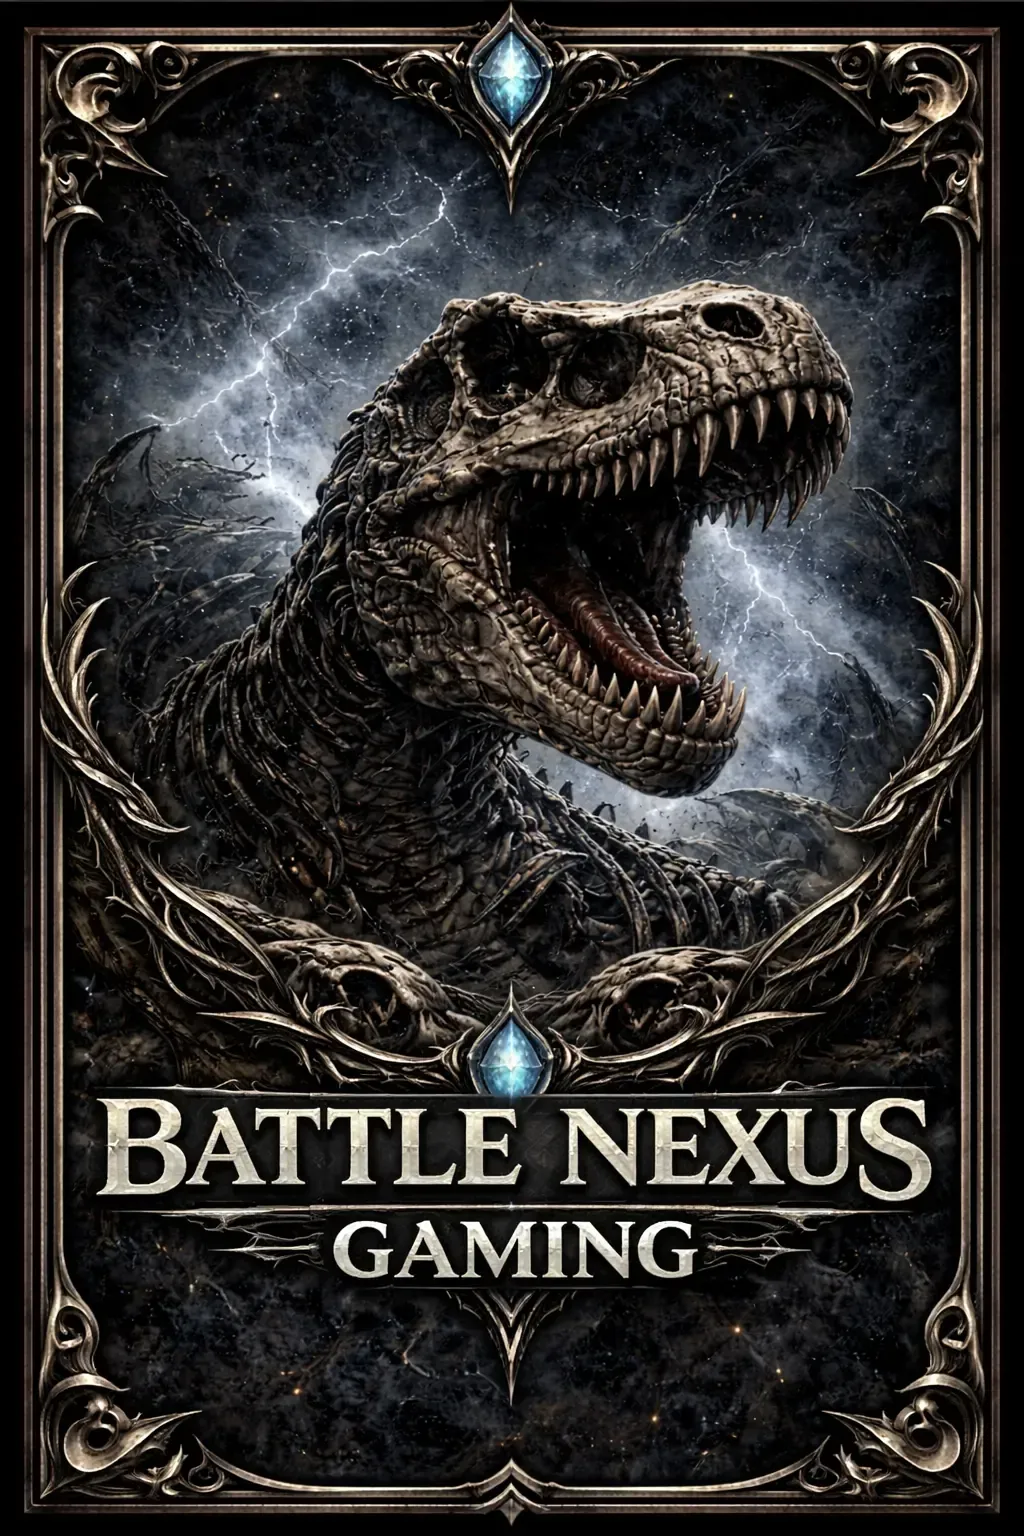
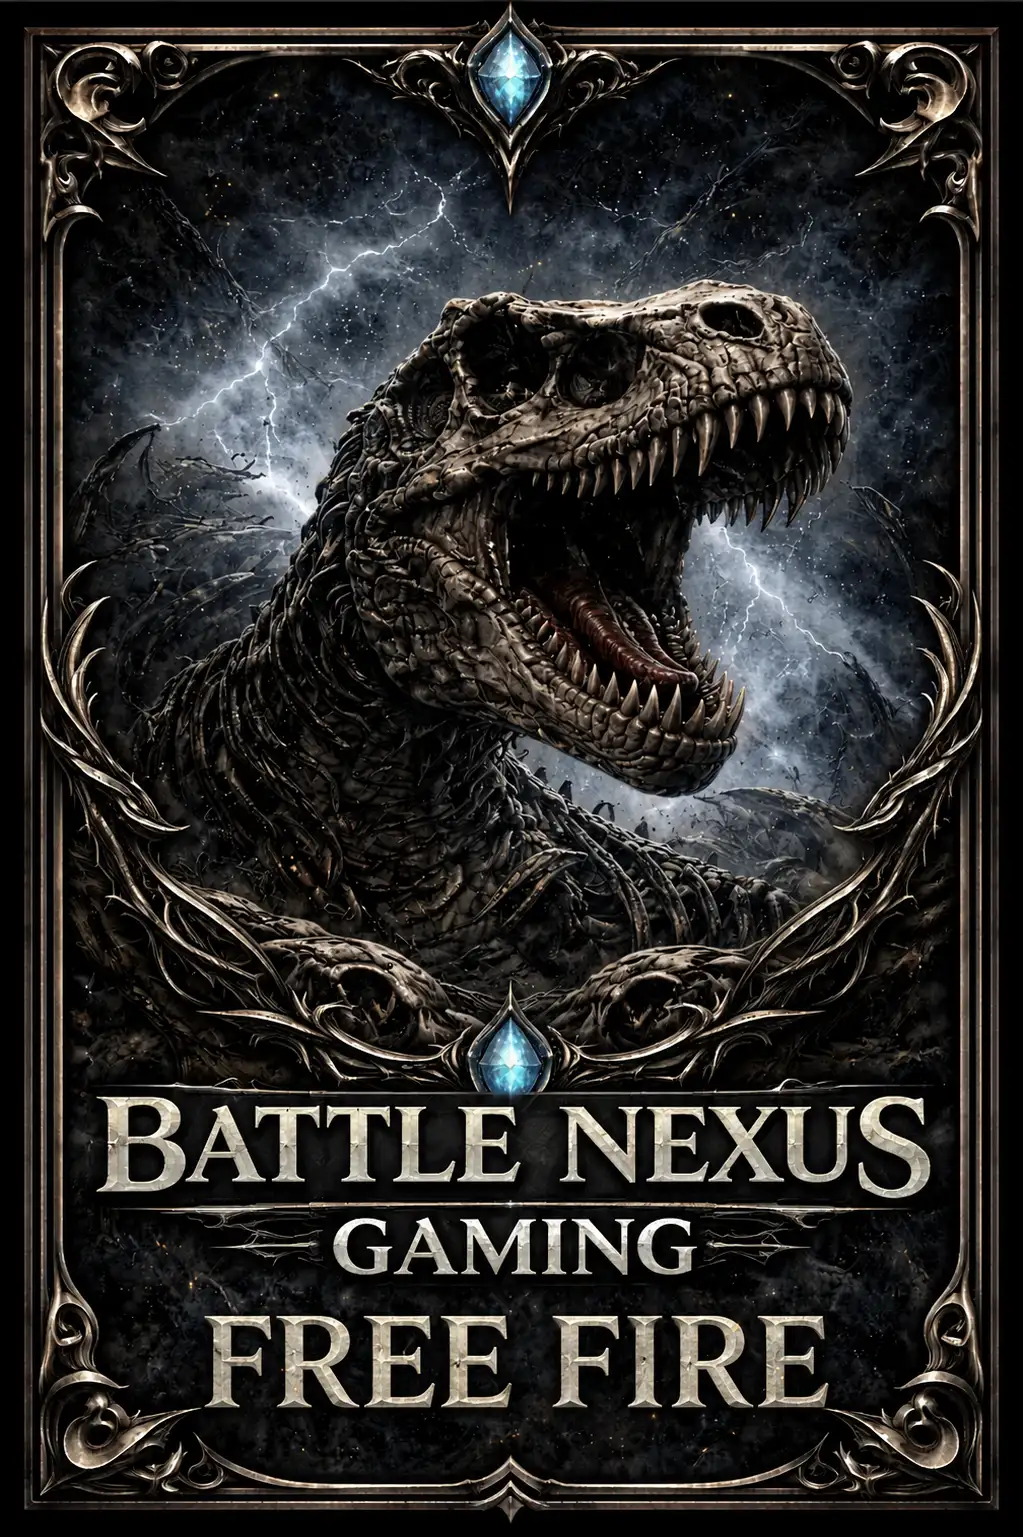
upded cultural datea

diff --git a/frontend/src/data/culturalEventsData.js b/frontend/src/data/culturalEventsData.js
@@ -11,15 +11,16 @@ export const culturalEventsData = {
     entryFee: "₹500",
     description: "Showcase your confidence, professionalism, and stage presence in the Corporate Walk event. Participants will walk the stage in formal attire and be judged based on confidence, presentation, personality, and overall appearance.",
     rules: [
-      "The team size consists of min 4 and max 12 members",
-      "The time limit is 5 minutes, with an additional 2 minutes allotted for stage setup",
-      "Participants are required to wear strict corporate or formal attire",
-      "Participants must submit their music in advance, preferably in MP3 format",
-      "Only minimal and safe props allowed (no smoke, fireworks etc)",
-      "Report 30–45 minutes before the event",
-      "Exceeding time limit will lead to point deduction",
-      "Rule violations may lead to disqualification",
-      "Judges’ decision will be final and binding"
+      "The team size consists of a minimum of 4 and a maximum of 12 members.",
+      "The time limit is 5 minutes, with an additional 1 minutes allotted for stage setup.",
+      "Participants are required to wear strict corporate or formal attire.",
+      "Participants should submit their music in advance, preferably in MP3 format.",
+      "Only minimal and safe props are allowed (no smoke, fireworks, etc.).",
+      "Report 30–45 minutes before the event.",
+      "Exceeding the time limit will lead to point deduction.",
+      "Rule violations may lead to disqualification.",
+      "Any number of teams from the same college can participate.",
+      "Judge’s decisions will be final and binding."
     ],
     coordinators: [
       {
@@ -53,16 +54,16 @@ export const culturalEventsData = {
     date: "May 16, 2026",
     time: "10:30 AM",
     location: "seminar hall 1",
-    participants: "Team of 6-8",
+    participants: "Team of 5-8",
     entryFee: "₹400",
     description: "Bring your team spirit and musical talent to the stage in the Group Song event. Participants will perform together showcasing coordination, vocals, rhythm, and overall stage performance. Judging will be based on song selection, harmony, creativity, and presentation.",
     rules: [
-      "The team should consist of a minimum of 6 and a maximum of 8 participants",
-      "Time limit: 4+1 minutes, including setting time",
-      "Judgment will be based on quality of singing, rhythm, pitch, clarity, and overall impression",
-      "Instruments are permitted",
-      "Western song category: Any pure Western song forms are allowed in Kannada, Hindi, or English language",
-      "Music tracks must be provided in a pen drive and submitted to the coordinator prior to the event"
+      "The team should consist of a minimum of 5 members and a maximum of 8 participants.",
+      "Time limit: 4+1 minutes (including stage setting).",
+      "Musical instruments are permitted.",
+      "Music tracks must be provided on a flash drive and submitted to the coordinator 1 hour before the event.",
+      "Remix songs are not allowed. Only one song is permitted (no restriction on language).",
+      "Judges’ decision is final."
     ],
     coordinators: [
       {
@@ -96,15 +97,18 @@ export const culturalEventsData = {
     date: "May 16, 2026",
     time: "11:30 AM",
     location: "seminar hall 3",
-    participants: "Team of 10-12",
+    participants: "Team of 4-12",
     entryFee: "₹400",
     description: "Bring your energy, coordination, and creativity to the stage in the Group Dance event. Teams will perform together showcasing synchronization, expressions, choreography, and overall stage performance. Judging will be based on creativity, coordination, presentation, and audience impact.",
     rules: [
-      "The team should consist of a minimum of 3 and a maximum of 8 participants, including special appearances",
-      "Time limit: 7+1 minutes, including setting time",
-      "Any number of groups can participate from the same college",
-      "Music tracks must be provided in a flash drive in MP3 format and submitted to the coordinator one hour prior to the event",
-      "Hazardous materials and indecency are not allowed"
+      "Any number of groups can participate from the same college.",
+      "Time limit: 5+1 minutes (including stage setting).",
+      "Theme should be based on Folk.",
+      "The team should consist of a minimum of 4 and a maximum of 12 participants (including special appearances).",
+      "Music tracks must be provided in MP3 format on a flash drive and submitted to the coordinator 1 hour before the event.",
+      "Hazardous materials and indecency are not allowed.",
+      "Participants are responsible for removing all materials immediately after the performance.",
+      "Judges’ decision will be final."
     ],
     coordinators: [
       {
@@ -142,11 +146,12 @@ export const culturalEventsData = {
     entryFee: "₹100",
     description: "Showcase your talent, energy, and passion through the Solo Dance event. Participants will perform individually and will be judged based on expression, creativity, coordination, stage presence, and overall performance.",
     rules: [
-      "This is a solo dance competition, and all dance forms are allowed",
-      "The maximum performance time is 5 minutes",
-      "Participants must submit their audio track one day prior to the event",
-      "Participants should report 30 minutes before the competition",
-      "Judges’ decision will be final, and vulgarity is strictly prohibited"
+      "Dance should be based on Classical/Semi-Classical.",
+      "Time limit: 5 minutes.",
+      "Participants must submit the music track 1 day before the event.",
+      "Participants should report 1 hour before the competition.",
+      "Any number of participants can participate from the same college.",
+      "Judges’ decision is final."
     ],
     coordinators: [
       {
@@ -184,10 +189,11 @@ export const culturalEventsData = {
     entryFee: "₹100",
     description: "Get ready for an exciting battle of talent, confidence, and creativity in the Face Off event. Participants will compete head-to-head showcasing their skills, presence of mind, and performance abilities. Judging will be based on confidence, creativity, presentation, and overall impact.",
     rules: [
-      "Dancers will be challenged to dance to the unpredictable, varied beats of a DJ",
-      "The music genre will change for each pair of dancers and can range from any genre of music such as rap, pop, breakbeats, funk, electronica, house music, hip hop etc",
-      "Judges will choose 1 dancer from each battle to advance to the next round until the battle progresses to 2 final dancers",
-      "Each dancer will be judged on his/her artistic creativity, his/her musicality, and his/her ability to entertain the judges"
+      "Dancers will be challenged to dance to unpredictable and varied DJ beats.",
+      "Music genres may include rap, pop, breakbeats, funk, electronic, house music, hip-hop, etc.",
+      "Judges will choose one dancer from each battle to advance to the next round until the battle progresses to 2 final dancers.",
+      "Any number of participants from the same college can participate.",
+      "Judges’ decisions will be final and binding."
     ],
     coordinators: [
       {
@@ -215,7 +221,7 @@ export const culturalEventsData = {
   },
   20: {
     id: 20,
-    title: "BATTLE NEXUS: Gaming",
+    title: "BATTLE NEXUS: Gaming - Free Fire",
     type: "cultural",
     category: "Gaming",
     date: "May 16, 2026",
@@ -226,15 +232,17 @@ export const culturalEventsData = {
     entryFee: "₹400",
     description: "Ultimate Free Fire tournament! Battle out in squad format to prove your survival strategy. The tournament features a League or Knockout format depending on team entries.",
     rules: [
-      "Each team must consist of 4 players",
-      "No player can participate in multiple teams",
-      "Participants must report 10 minutes before the match",
-      "No emulators or unfair tools allowed",
-      "Personal accessories (thumb grips, etc.) are allowed",
-      "Any form of cheating leads to disqualification",
-      "Organizer’s decision will be final",
-      "Map will be decided on the spot",
-      "All participants are responsible for bringing their own necessary devices and accessories (e.g., mobile phones, cooling pads, chargers, etc.) required for participation. No additional equipment will be provided by the organizers."
+      "Each team must consist of 4 players.",
+      "No player can participate in multiple teams.",
+      "Participants must report 10 minutes before the match.",
+      "No emulators or unfair tools are allowed.",
+      "Personal gaming accessories (thumb grips, etc.) are allowed.",
+      "Any form of cheating will lead to disqualification.",
+      "Maps will be decided on the spot.",
+      "Participants are responsible for bringing their own required devices and accessories.",
+      "No additional equipment will be provided by the organizers.",
+      "Any number of teams from the same college can participate.",
+      "Organizers’ decisions will be final."
     ],
     coordinators: [
       {

diff --git a/frontend/src/components/Footer.jsx b/frontend/src/components/Footer.jsx
@@ -265,14 +265,11 @@ const Footer = () => {
               <div className="space-y-3">
                 <span className="text-[9px] font-black text-white/30 tracking-widest block uppercase">External Feed</span>
                 <div className="flex gap-4 lg:justify-end">
-                  <a href="#" className="p-2 border border-white/10 hover:border-red-600 hover:text-red-600 transition-all group" title="TERMINAL CHAT">
+                  <a href="#contact" onClick={(e) => handleNavClick(e, 'contact')} className="p-2 border border-white/10 hover:border-red-600 hover:text-red-600 transition-all group" title="TERMINAL CHAT">
                     <MessageSquare size={18} className="opacity-60 group-hover:opacity-100" />
                   </a>
                   <a href="https://www.instagram.com/astrix_.2026/" target="_blank" rel="noopener noreferrer" className="p-2 border border-white/10 hover:border-red-600 hover:text-red-600 transition-all group" title="INSTAGRAM FEED">
                     <svg width="18" height="18" viewBox="0 0 24 24" fill="none" stroke="currentColor" strokeWidth="2" strokeLinecap="round" strokeLinejoin="round" className="opacity-60 group-hover:opacity-100"><rect x="2" y="2" width="20" height="20" rx="5" ry="5"></rect><path d="M16 11.37A4 4 0 1 1 12.63 8 4 4 0 0 1 16 11.37z"></path><line x1="17.5" y1="6.5" x2="17.51" y2="6.5"></line></svg>
-                  </a>
-                  <a href="#" className="p-2 border border-white/10 hover:border-red-600 hover:text-red-600 transition-all group" title="YOUTUBE FEED">
-                    <svg width="18" height="18" viewBox="0 0 24 24" fill="none" stroke="currentColor" strokeWidth="2" strokeLinecap="round" strokeLinejoin="round" className="opacity-60 group-hover:opacity-100"><path d="M22.54 6.42a2.78 2.78 0 0 0-1.94-2C18.88 4 12 4 12 4s-6.88 0-8.6.46a2.78 2.78 0 0 0-1.94 2A29 29 0 0 0 1 11.75a29 29 0 0 0 .46 5.33 2.78 2.78 0 0 0 1.94 2c1.72.46 8.6.46 8.6.46s6.88 0 8.6-.46a2.78 2.78 0 0 0 1.94-2 29 29 0 0 0 .46-5.33 29 29 0 0 0-.46-5.33z"></path><polygon points="9.75 15.02 15.5 11.75 9.75 8.48 9.75 15.02"></polygon></svg>
                   </a>
                 </div>
               </div>